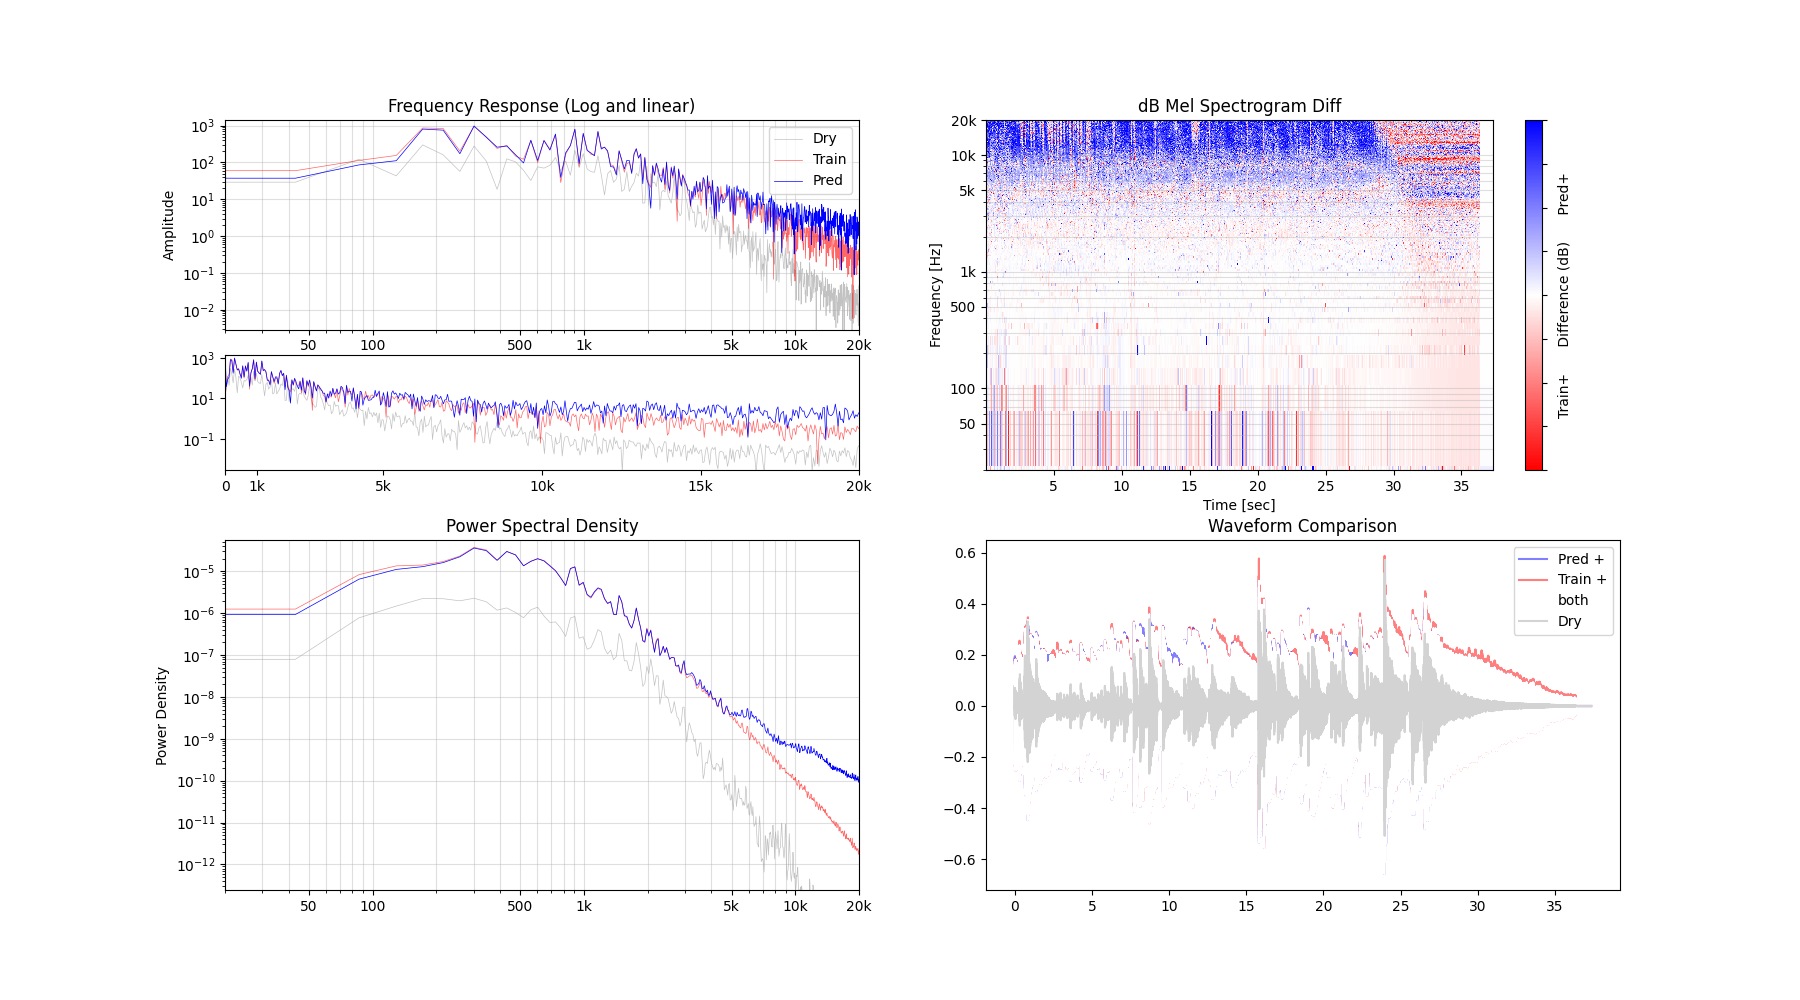
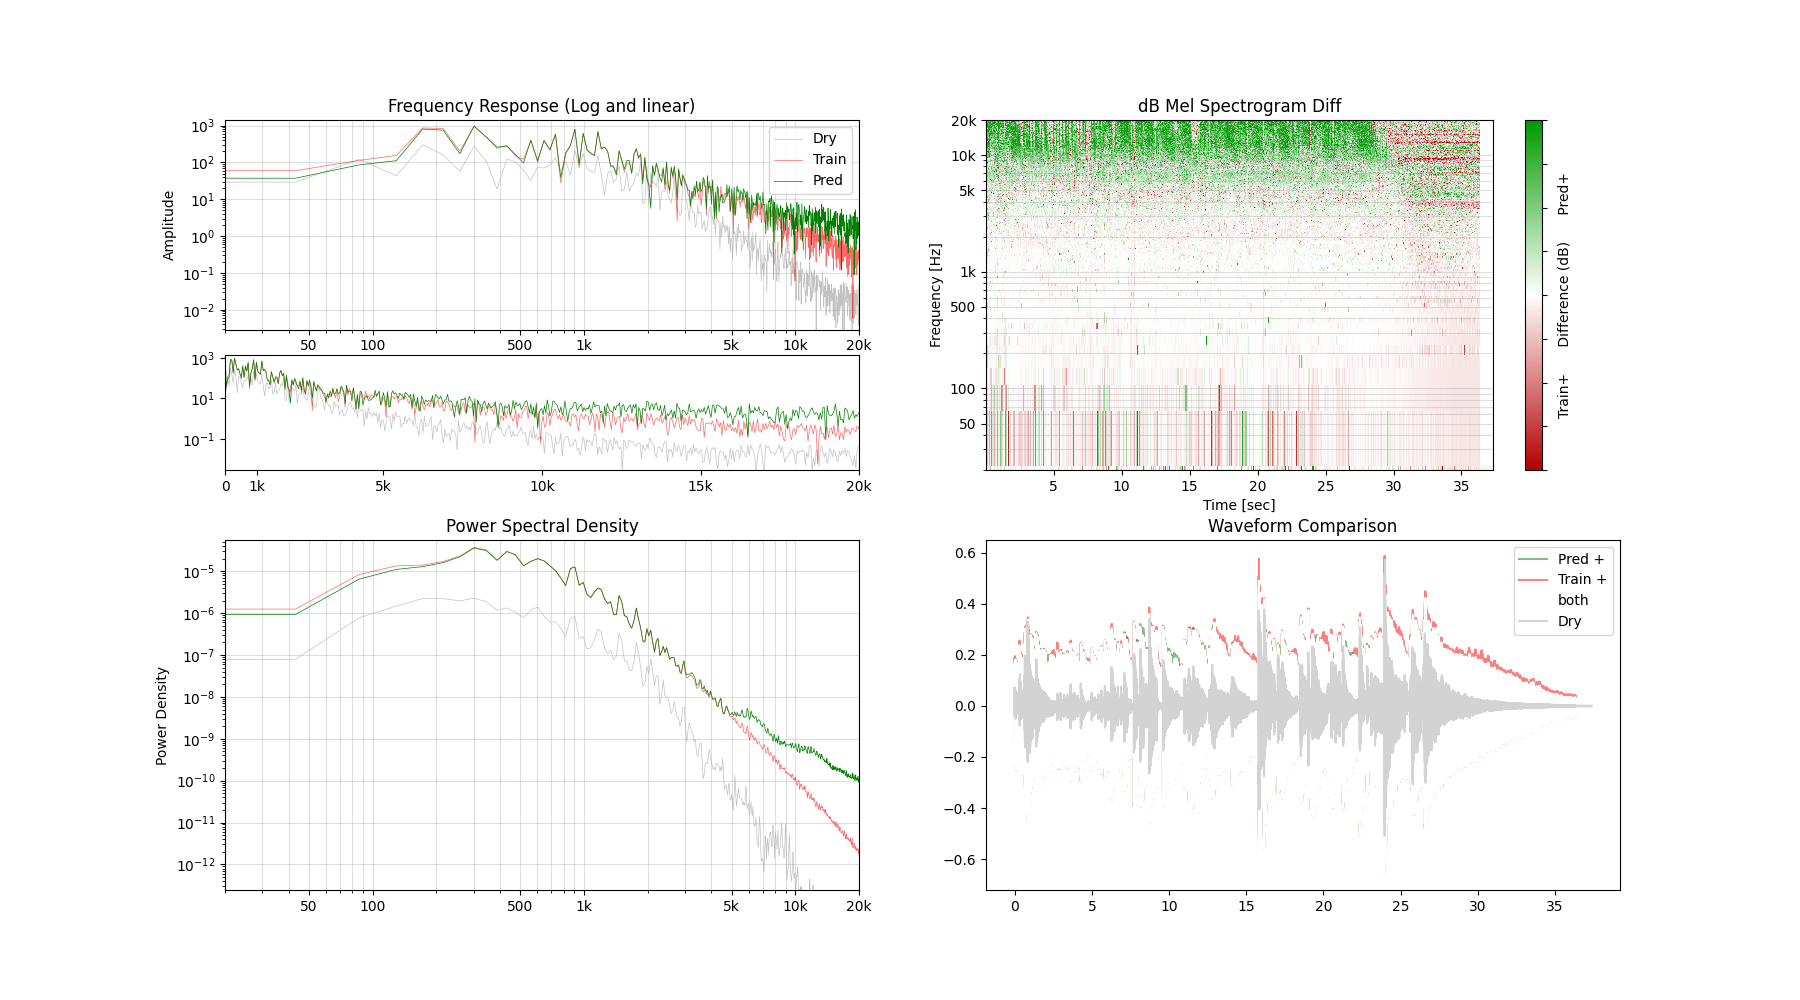
diff colors for data viz

diff --git a/compare.py b/compare.py
@@ -4,6 +4,9 @@ from scipy import signal
 from scipy.io import wavfile
 import matplotlib.pyplot as plt
 from mpl_toolkits.axes_grid1 import make_axes_locatable
+from matplotlib.colors import LinearSegmentedColormap
+from matplotlib import cm
+
 
 class Compare:
     """
@@ -88,6 +91,12 @@ class Compare:
         divider = make_axes_locatable(ax1)
         ax1_bottom = divider.append_axes("bottom", size="55%", pad=0.25)
 
+        # Custom divergent colormap from red to white to green
+        rwg = [(0.7, 0, 0), (1, 1, 1), (0, 0.6, 0)]
+        nodes = [0.0, 0.5, 1.0]
+        diff_cmap = LinearSegmentedColormap.from_list('rwg', list(zip(nodes, rwg)))
+        plt.colormaps.register(cmap=diff_cmap, name='rwg')
+
         # ==============================================================================
         # Top left (AX1): EQ Curve
         # ==============================================================================
@@ -98,7 +107,7 @@ class Compare:
         ax1.set_title('Frequency Response (Log and linear)')
         ax1.plot(0.5 * sr * w_dry / np.pi, np.abs(h_dry), label='Dry', color='darkgray', linewidth=0.5, alpha=0.7)
         ax1.plot(0.5 * sr * w_train / np.pi, np.abs(h_train), label='Train', color='red', linewidth=0.5, alpha=0.6)
-        ax1.plot(0.5 * sr * w_pred / np.pi, np.abs(h_pred), label='Pred', color='blue', linewidth=0.5)
+        ax1.plot(0.5 * sr * w_pred / np.pi, np.abs(h_pred), label='Pred', color='green', linewidth=0.5)
         ax1.set_ylim([min(np.abs(h_train))*0.5, max(np.abs(h_train))*1.5])
         ax1.set_xscale('log')
         ax1.set_yscale('log')
@@ -113,16 +122,13 @@ class Compare:
 
         ax1_bottom.plot(0.5 * sr * w_dry / np.pi, np.abs(h_dry), label='Dry', color='darkgray', linewidth=0.5, alpha=0.7)
         ax1_bottom.plot(0.5 * sr * w_train / np.pi, np.abs(h_train), label='Train', color='red', linewidth=0.5, alpha=0.6)
-        ax1_bottom.plot(0.5 * sr * w_pred / np.pi, np.abs(h_pred), label='Pred', color='blue', linewidth=0.5)
+        ax1_bottom.plot(0.5 * sr * w_pred / np.pi, np.abs(h_pred), label='Pred', color='green', linewidth=0.5)
         ax1_bottom.set_ylim([min(np.abs(h_train))*0.5, max(np.abs(h_train))*1.5])
         ax1_bottom.set_xscale('linear')
         ax1_bottom.set_yscale('log')
         ax1_bottom.set_xlim([20, 20000])
         ax1_bottom.set_xticks([1, 1000, 5000, 10000, 15000, 20000])
         ax1_bottom.set_xticklabels(['0','1k', '5k', '10k', '15k', '20k'])
-
-
-        
 
         # ==============================================================================
         # Bottom left (AX2): Power Spectral Density
@@ -138,7 +144,7 @@ class Compare:
         ax2.set_title('Power Spectral Density')
         ax2.plot(f_dry, Pxx_dry, label='Dry', color='darkgray', linewidth=0.5, alpha=0.7)
         ax2.plot(f_train, Pxx_train, label='Train', color='red', linewidth=0.5, alpha=0.6)
-        ax2.plot(f_pred, Pxx_pred, label='Pred', color='blue', linewidth=0.5)
+        ax2.plot(f_pred, Pxx_pred, label='Pred', color='green', linewidth=0.5)
         # Fix y axis based on train means identical graph scale across trainings
         ax2.set_ylim([min(Pxx_train)*0.5, max(Pxx_train)*1.5])
         ax2.set_xscale('log')
@@ -162,7 +168,7 @@ class Compare:
         sgram_diff_db = sgram_pred_db - sgram_train_db
 
         # Plot the difference
-        ax3.pcolormesh(t, f, sgram_diff_db, shading='auto', cmap='bwr_r', vmin=-10, vmax=10)
+        ax3.pcolormesh(t, f, sgram_diff_db, shading='auto', cmap='rwg', vmin=-10, vmax=10)
         ax3.set_ylabel('Frequency [Hz]')
         ax3.set_xlabel('Time [sec]')
         ax3.set_yscale('log')
@@ -181,17 +187,12 @@ class Compare:
         overlap_waveform = np.minimum(pred, train)
 
         ax4.set_title('Waveform Comparison')
-        ax4.plot(x_range, pred, label='Pred +', color='blue', alpha=0.5)
+        ax4.plot(x_range, pred, label='Pred +', color='green', alpha=0.5)
         ax4.plot(x_range, train, label='Train +', color='red', alpha=0.5)
         ax4.plot(x_range, overlap_waveform, label='both', color='white', alpha=1)
         ax4.plot(x_range, dry, label='Dry', color='lightgray', alpha=1)
         ax4.legend()
 
-        # ax4_bottom.plot(x_range, dry, label='Dry', color='darkgray', linewidth=0.5, alpha=0.7)
-        # ax4_bottom.legend()
-        # ax4_bottom.set_xticks([])
-        # ax4_bottom.set_yticks([])
-        
         # Save the figure
         if(self.save):
             save_path = f'{self.out_dir}/result.png'
